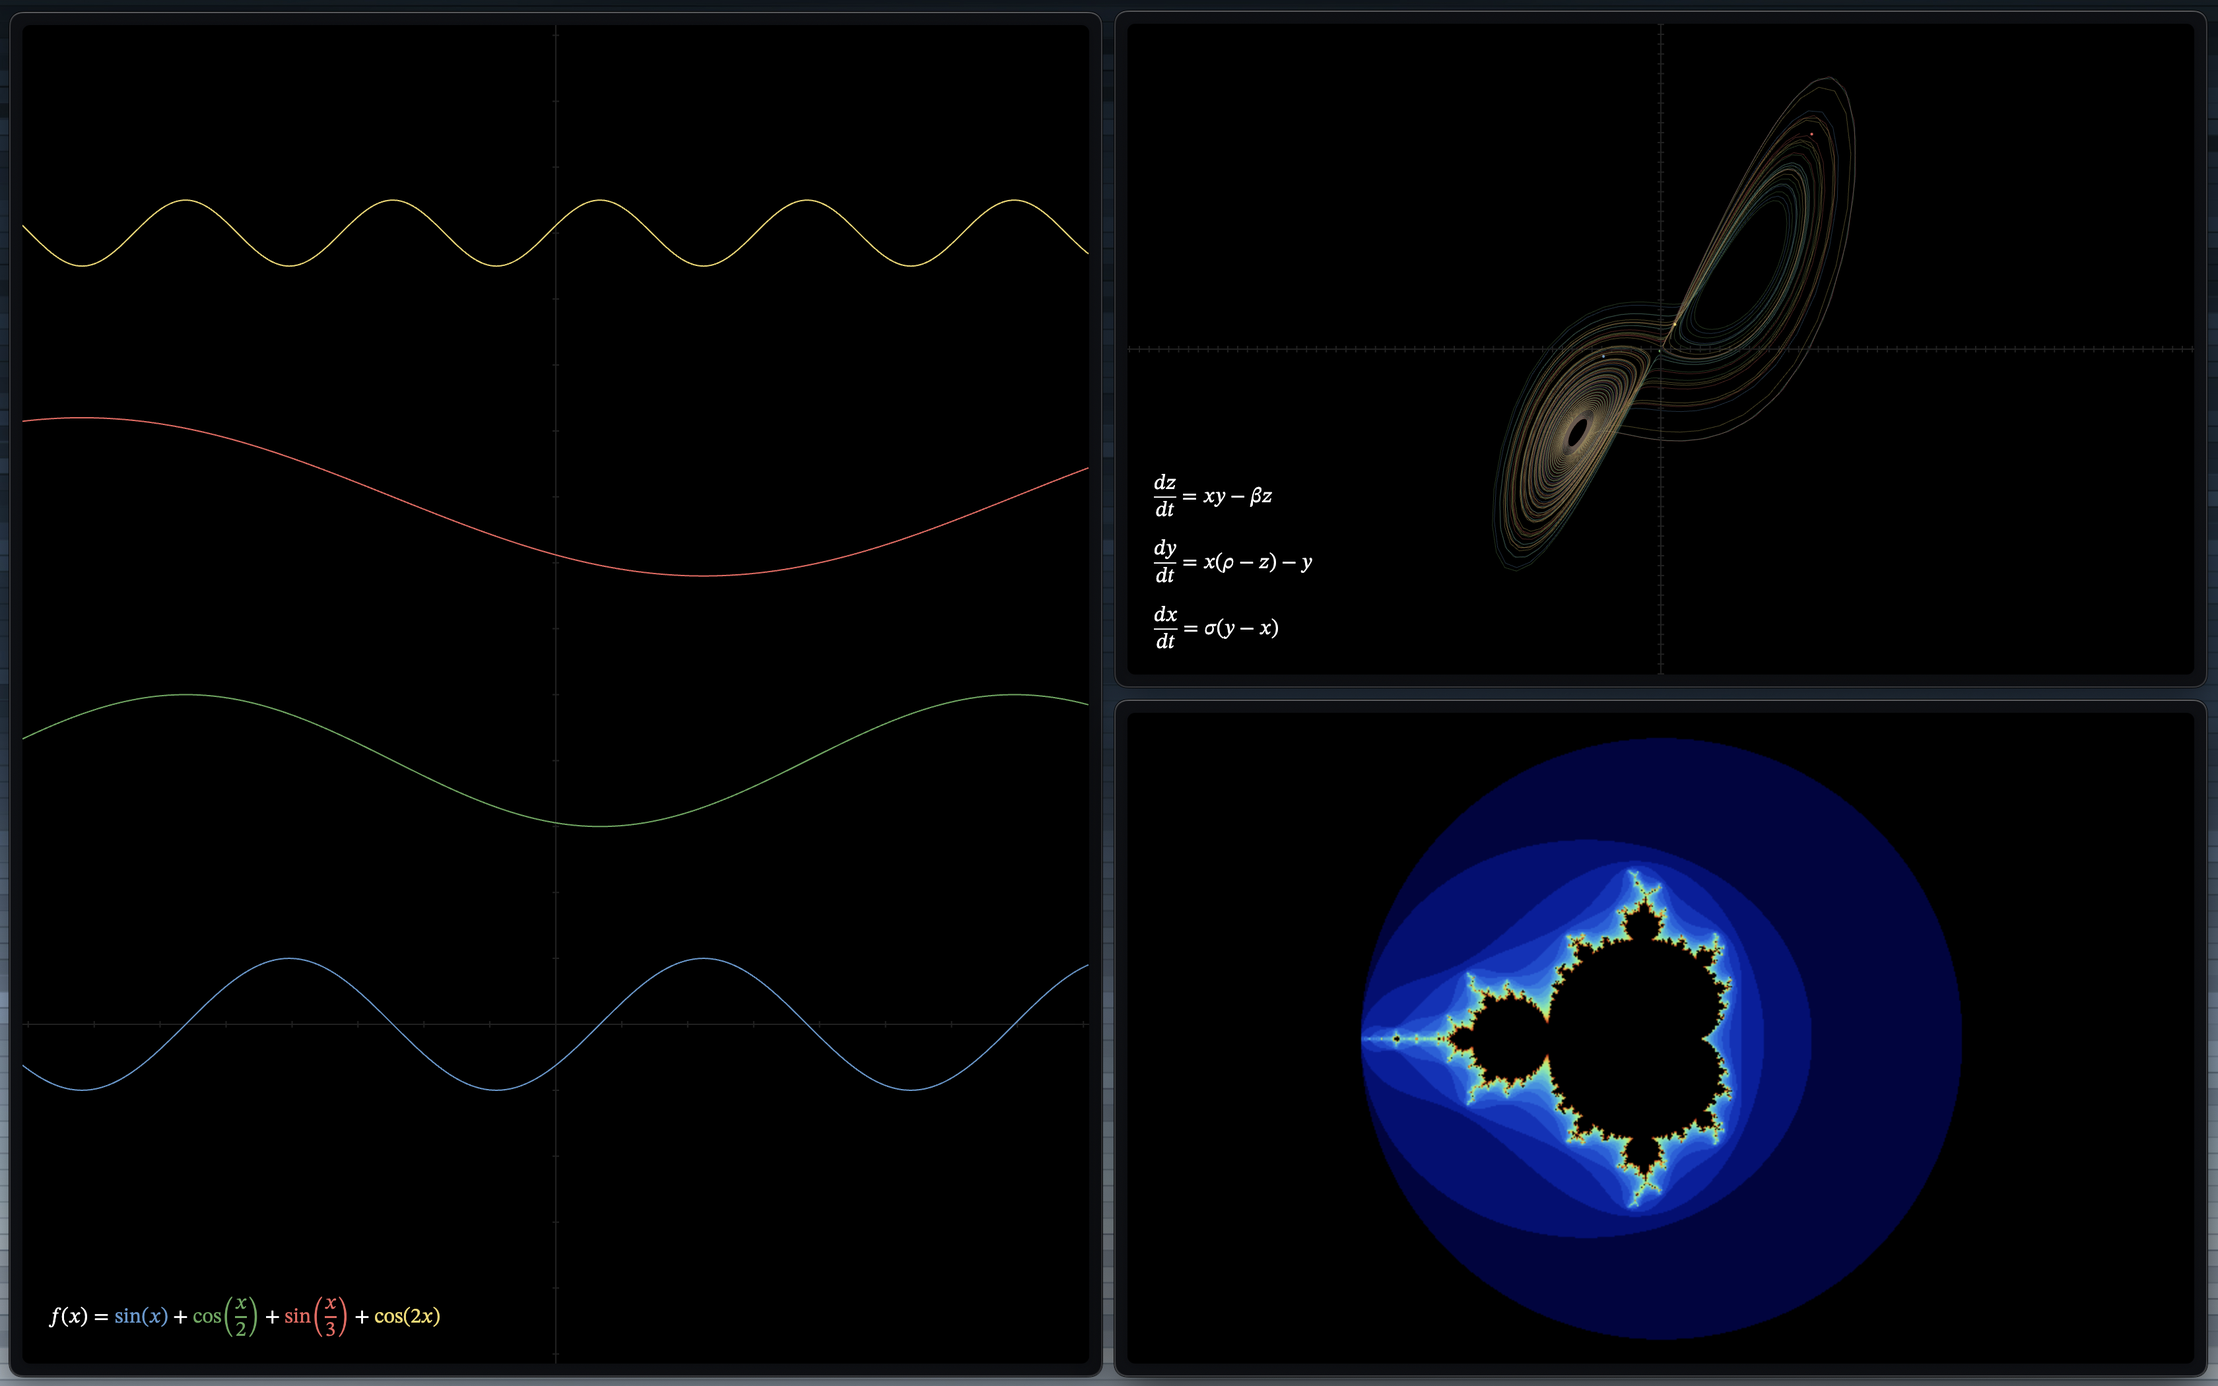
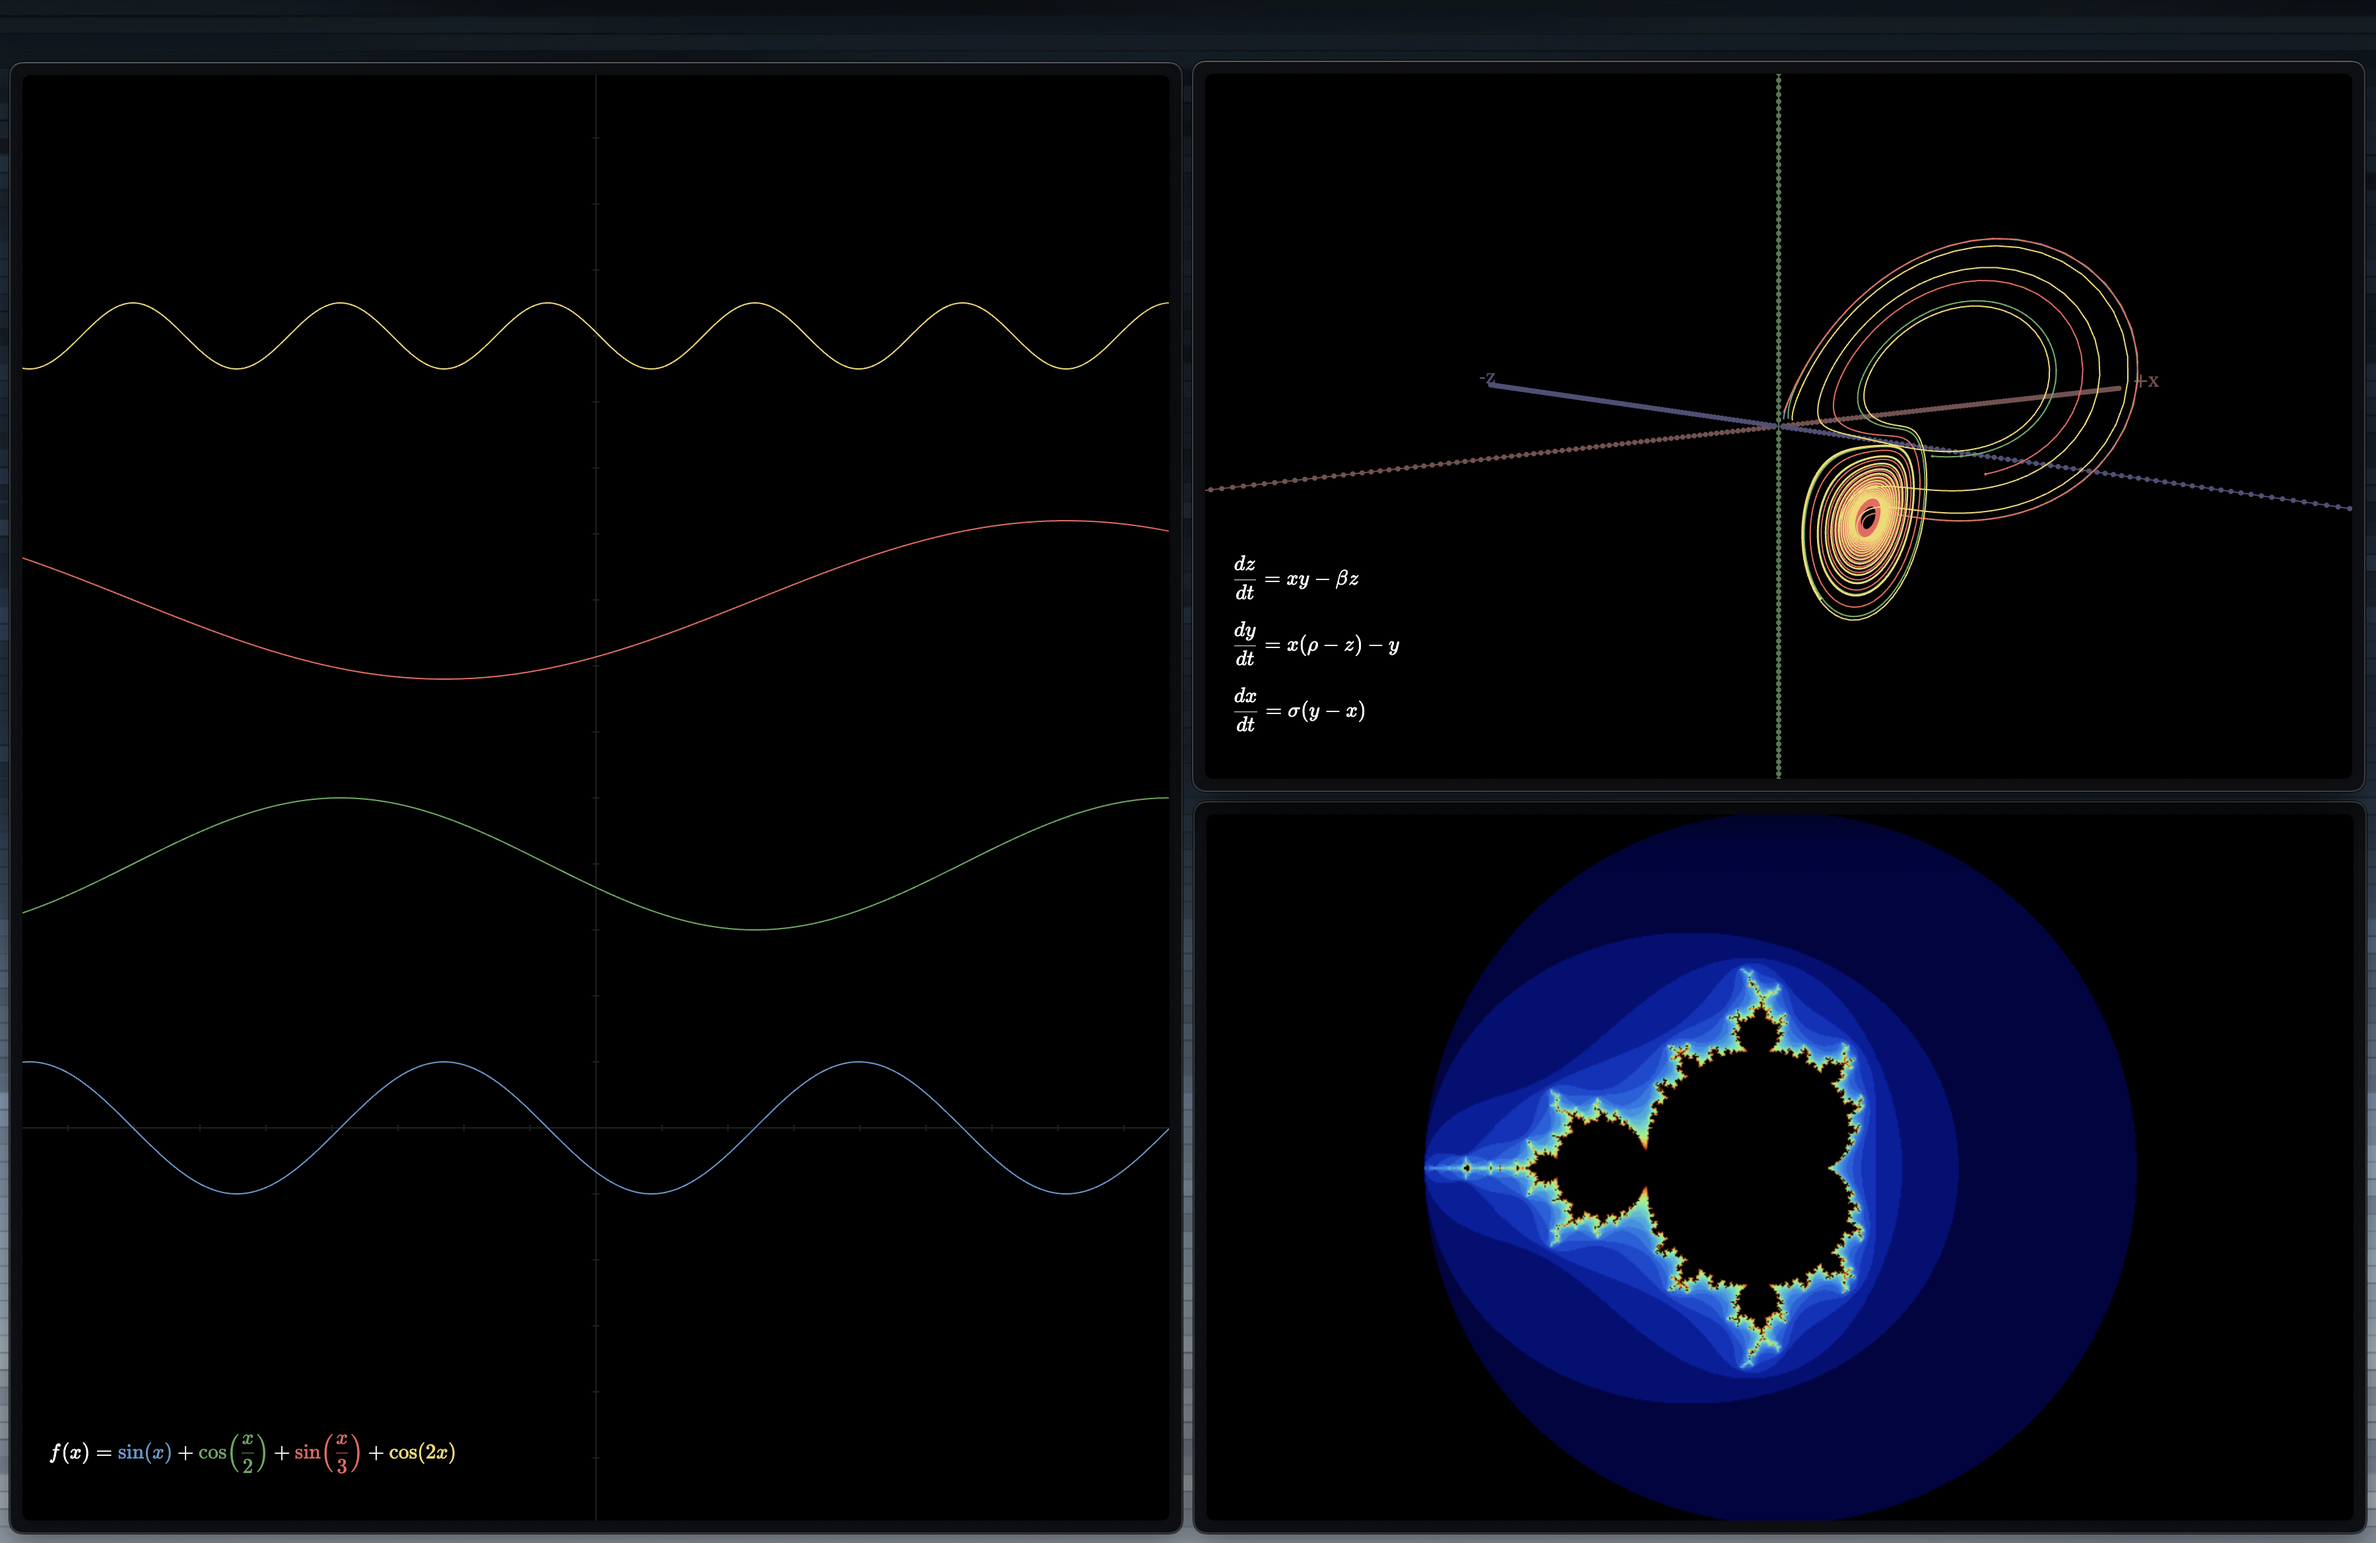
(readme, assets) update readme for 3d

diff --git a/README.md b/README.md
@@ -2,7 +2,7 @@
 
 A speedy, lightweight, and typesafe canvas rendering and lifecycle management library.
 
-![Three windows are open in a grid layout. The leftmost window shows the graphs of four trigonometric functions, the top right window shows a x-y representation of a Lorenz attractor, and the lower right window shows a rendering of the Mandelbrot set.](https://raw.githubusercontent.com/TheCommieAxolotl/mach2/refs/heads/main/assets/demo.png)
+![Three windows are open in a grid layout. The leftmost window shows the graphs of four trigonometric functions, the top right window shows a 3d representation of a Lorenz attractor, and the lower right window shows a rendering of the Mandelbrot set.](https://raw.githubusercontent.com/TheCommieAxolotl/mach2/refs/heads/main/assets/demo.png)
 
 > Graphs of $f(x) = \sin(x) + \cos\Bigl(\frac{x}{2}\Bigr) + \cos\Bigl(\frac{x}{3}\Bigr) + \cos(2x)$.
 > x-y rendering of a Lorentz attractor, and a rendering of the Mandelbrot set.
